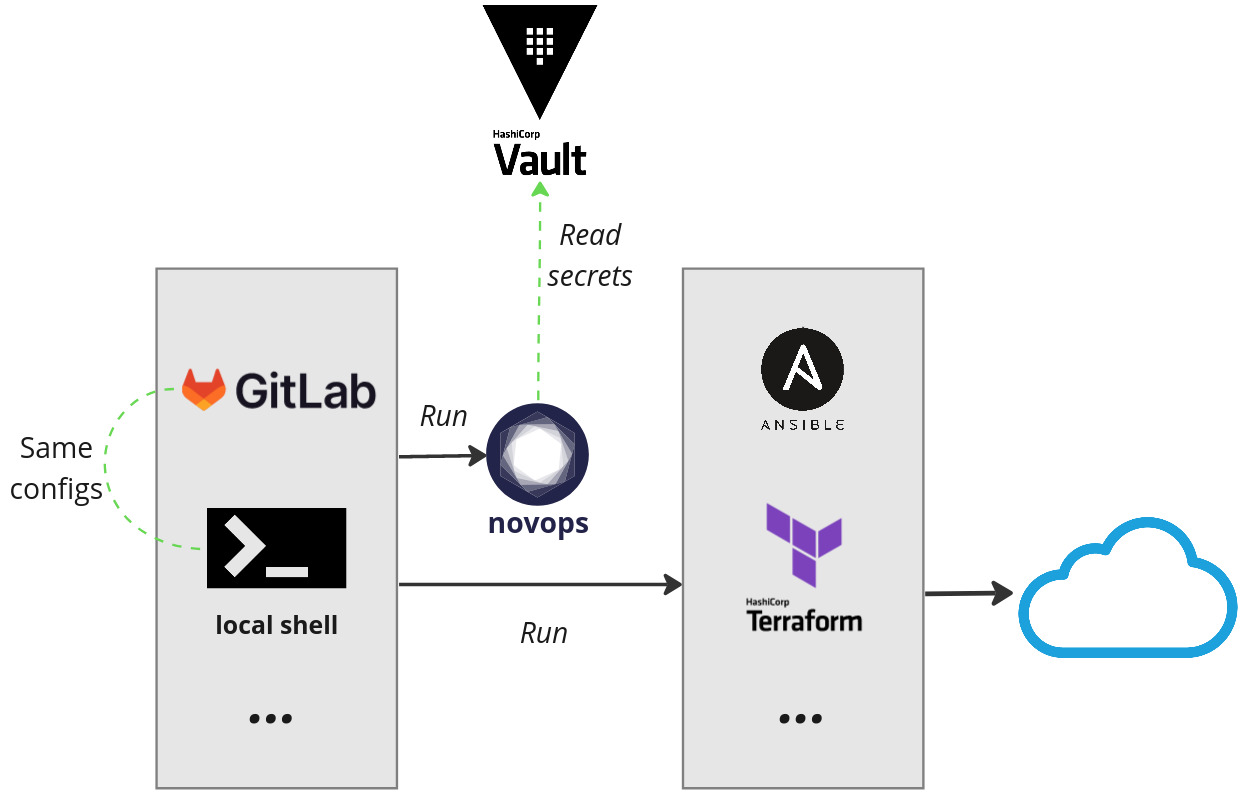
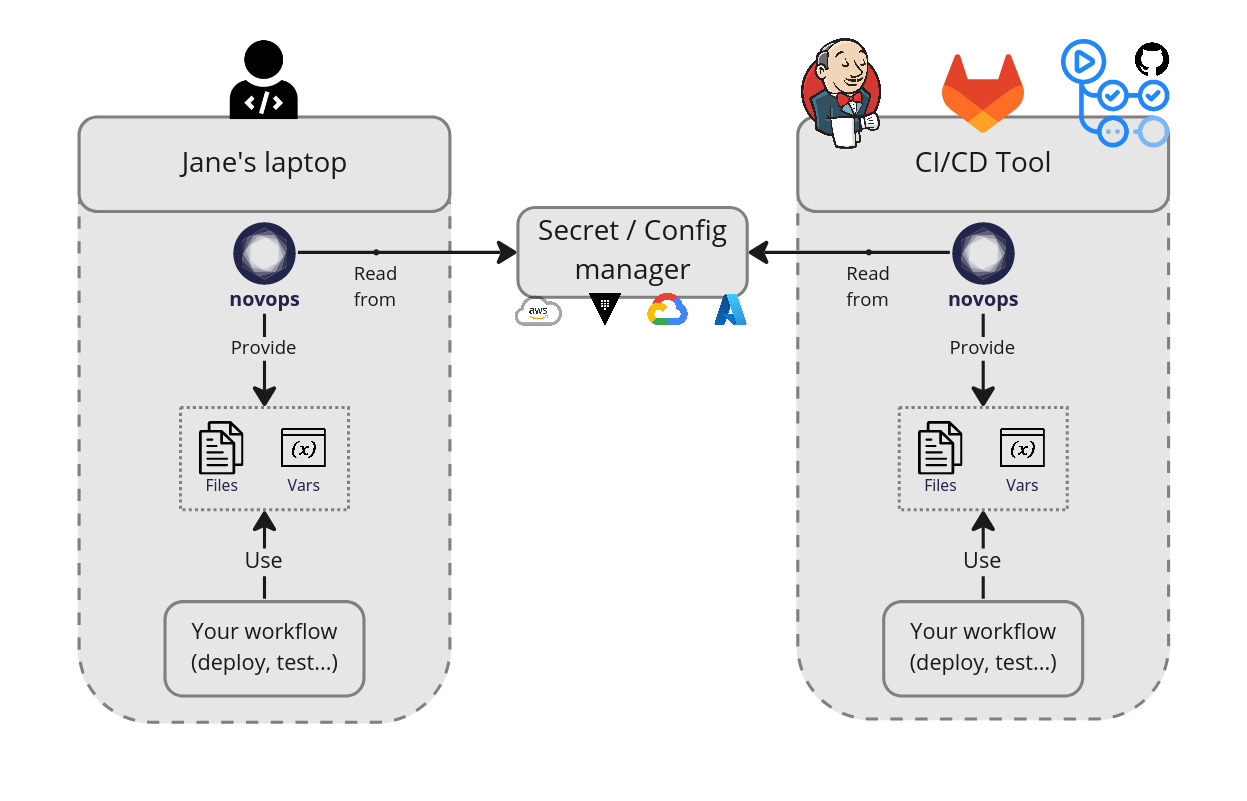
docs: install guide and better why novops

diff --git a/README.md b/README.md
@@ -3,48 +3,31 @@
 Platform agnostic secret and config manager for DevOps, CI and development environments.
 
 - [Novops](#novops)
-  - [Why Novops?](#why-novops)
   - [Features](#features)
+  - [Install](#install)
   - [Getting started](#getting-started)
   - [Documentation](#documentation)
   - [Contributing](#contributing)
-  - [License](#license)
-
-## Why Novops?
-
-Consider a typical Infra as Code project:
-- Terraform managing Cloud infrastructure and virtual machines
-- Ansible configuring virtual machines and deploying applications
-- GitLab for CI and GitOps implementation
-- Multiple environments: dev, preprod, prod...
-
-Maintainer have to manage configurations for:
-- Various environment-specific configs for deployment tools (Terraform workspace, Ansible inventory, etc.)
-- Various secrets used both during deployment (AWS creds, Hashicorp Vault tokens, etc.) and set-up secret configs for apps (passwords, tokens, etc.)
-
-![before Novops](docs/assets/novops-before.jpg)
-
-Most of the time managed as files, environment variables and/or through a config/secret manager (Hashicorp Vault, AWS Secret Manager...):
-- Maintainers need a local copy of each secrets (such as local as git-ignored _.env_, _.token_, etc. files **per environment**)
-- The same configs/secrets are duplicated on CI tools for each environments
-- Using a secret manager like Hashicorp Vault reduces load, but you often needs to call this external dependency in multiple places (current shell, Terraform provider, Ansible lookup...)
-
-Your team often ends-up with either or both:
-- Frustration to setup and maintain local development environment
-- Depending solely on CI only to test IaC code change, with long and painful feedback loops (as it's too complex to setup the same environment locally)
-
-![after Novops](docs/assets/novops-after.jpg)
-
-Novops help reducing drift and ease reproducibility between local and CI context, and between environments by centralazing in a single config all secrets/configs your tools depend-on.
 
 ## Features
 
+![novops-features](docs/assets/novops-features.jpg)
+
 - Securely load secrets and configs as files or environment variables
-- Integrate with various secret providers: Hashicorp Vault, BitWarden...
-- Easily integrated within Gitlab, GitHub, Jenkins and most CI systems: Novops runs the same on CI as locally
 - Reduce drift between local dev context and CI/CD
+- Integrate with various secret providers: Hashicorp Vault, BitWarden...
+- Easily integrated within most shells and CI systems: Gitlab, GitHub, Jenkins...
 - Manage multi-environment (dev, preprod, prod...)
 - Quick and easy installation using static binary
+
+## Install
+
+
+```
+curl -L "https://github.com/novadiscovery/novops/releases/download/v0.1.20/x86_64-unknown-linux-musl.zip" -o "novops.zip"
+unzip novops.zip
+sudo mv novops/novops /usr/local/bin/novops
+```
 
 ## Getting started
 
@@ -127,6 +110,3 @@ env | grep APP_
 We welcome contributions: bug reports/fixes, modules, proposals... :)
 
 See [contribution guide](./CONTRIBUTING.md)
-
-## License
-

diff --git a/docs/why-novops.md b/docs/why-novops.md
@@ -1,0 +1,25 @@
+# Why Novops?
+
+Consider a typical Infra as Code project:
+- Deployment tool (Terraform, Ansible...) managing Cloud infrastructure / machines configurations
+- CI/CD (GitLab, Jenkins...) with GitOps implementation for multiple environments: dev, staging, prod...
+
+Typically, teams must manage configurations in several places:
+- A Secret Manager (Hashicorp Vault, AWS Secret Manager...) holding most secrets
+- Internal CI/CD configs and secrets (creds for secret manager, per-environment configs, etc.) provided as files or environment variables 
+
+![novops-before](assets/novops-before.jpg)
+
+Your team often ends-up with situations like:
+- Its hard - or even impossible - to reproduce what happens on CI/CD for debugging and development purposes
+- Making things work requires a bunch of (secret) files and environment variables copied from CI/CD config
+- Additional setup is required to reproduce CI/CD context (built-in variables, etc.)
+
+Your team ends-up not testing locally altogether - waiting ages for CI/CD workflow to complete after a comme change - or must keep boiler-plate config up-to-date, risking consequent drift as a result. 
+
+![novops-after](assets/novops-after.jpg)
+
+Novops allow your team to manage secrets & configs from a single Git-versioned file. Peproducing CI/CD environment locally becomes easy and secure:
+- Files and environment variables are loaded from the same source of truth
+- Secrets are stored securely and can be cleaned-up easily
+- It's then easy to reproduce the same context locally and on CI/CD
